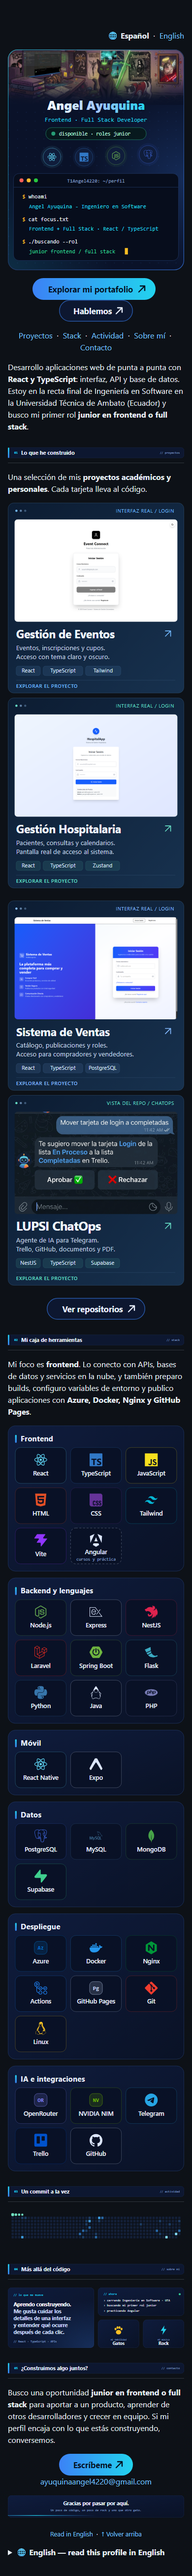
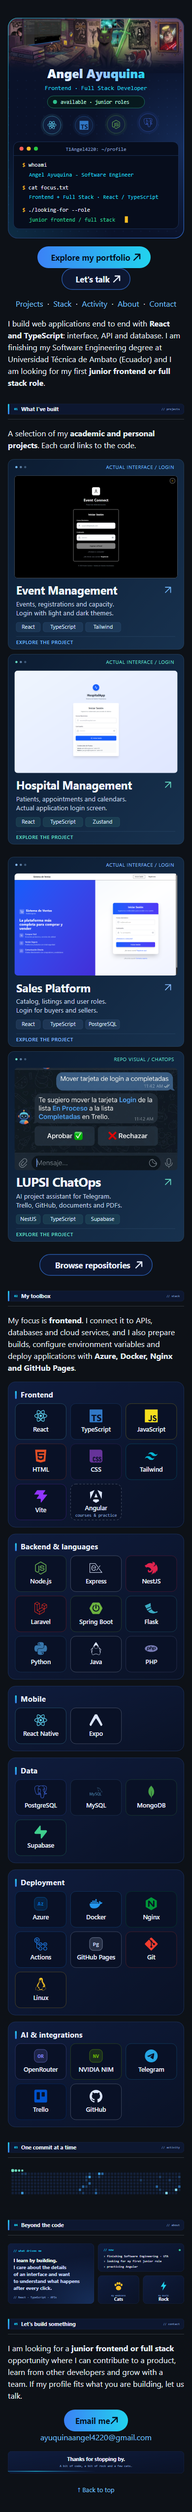
Show English profile by default and preserve Spanish separately

diff --git a/README.md b/README.md
@@ -1,71 +1,67 @@
 <a name="top"></a>
 
-<p align="right">
-  🌐 <strong>Español</strong> &nbsp;·&nbsp; <a href="./README.en.md" lang="en">English</a>
-</p>
-
 <p align="center">
   <picture>
-    <source media="(max-width: 600px)" srcset="./assets/v3/es/hero-mobile.svg">
-    <img src="./assets/v3/es/hero.svg" width="100%" alt="Angel Ayuquina, Ingeniero en Software. Enfoque Frontend y Full Stack con React, TypeScript, APIs y datos. Disponible para roles junior. Habitación animada de programación y rock con gatos.">
+    <source media="(max-width: 600px)" srcset="./assets/v3/en/hero-mobile.svg">
+    <img src="./assets/v3/en/hero.svg" width="100%" alt="Angel Ayuquina, Software Engineer. Frontend and Full Stack focus with React, TypeScript, APIs and data. Available for junior roles. Animated cat-filled programming and rock room.">
   </picture>
 </p>
 
 <p align="center">
-  <a href="https://angel-portafolio-eight.vercel.app/"><img src="./assets/v3/es/cta-portfolio.svg" height="44" alt="Explorar mi portafolio"></a>
+  <a href="https://angel-portafolio-eight.vercel.app/"><img src="./assets/v3/en/cta-portfolio.svg" height="44" alt="Explore my portfolio"></a>
   &nbsp;
-  <a href="#contact"><img src="./assets/v3/es/cta-talk.svg" height="44" alt="Hablemos"></a>
+  <a href="#contact"><img src="./assets/v3/en/cta-talk.svg" height="44" alt="Let's talk"></a>
 </p>
 
 <p align="center">
-  <a href="#projects">Proyectos</a> &nbsp;·&nbsp;
+  <a href="#projects">Projects</a> &nbsp;·&nbsp;
   <a href="#stack">Stack</a> &nbsp;·&nbsp;
-  <a href="#activity">Actividad</a> &nbsp;·&nbsp;
-  <a href="#about">Sobre&nbsp;mí</a> &nbsp;·&nbsp;
-  <a href="#contact">Contacto</a>
+  <a href="#activity">Activity</a> &nbsp;·&nbsp;
+  <a href="#about">About</a> &nbsp;·&nbsp;
+  <a href="#contact">Contact</a>
 </p>
 
-Desarrollo aplicaciones web de punta a punta con **React y TypeScript**: interfaz, API y base de datos. Estoy en la recta final de Ingeniería en Software en la Universidad Técnica de Ambato (Ecuador) y busco mi primer rol **junior en frontend o full stack**.
+I build web applications end to end with **React and TypeScript**: interface, API and database. I am finishing my Software Engineering degree at Universidad Técnica de Ambato (Ecuador) and I am looking for my first **junior frontend or full stack role**.
 
 <a name="projects"></a>
 
 <h2>
-  <img src="./assets/v3/es/h1.svg" width="100%" alt="Lo que he construido">
+  <img src="./assets/v3/en/h1.svg" width="100%" alt="What I've built">
 </h2>
 
-Una selección de mis **proyectos académicos y personales**. Cada tarjeta lleva al código.
+A selection of my **academic and personal projects**. Each card links to the code.
 
 <p align="center">
-  <a href="https://github.com/T1Angel4220/eventconnect"><img src="./assets/projects/eventconnect-es.svg" width="420" alt="Gestión de Eventos · React, TypeScript, Tailwind"></a>
-  <a href="https://github.com/T1Angel4220/AD-GestionHospitalaria"><img src="./assets/projects/hospitalapp-es.svg" width="420" alt="Gestión Hospitalaria · React, TypeScript, Zustand"></a>
+  <a href="https://github.com/T1Angel4220/eventconnect"><img src="./assets/projects/eventconnect-en.svg" width="420" alt="Event Management · React, TypeScript, Tailwind"></a>
+  <a href="https://github.com/T1Angel4220/AD-GestionHospitalaria"><img src="./assets/projects/hospitalapp-en.svg" width="420" alt="Hospital Management · React, TypeScript, Zustand"></a>
 </p>
 
 <p align="center">
-  <a href="https://github.com/T1Angel4220/SistemaVentas"><img src="./assets/projects/sales-es.svg" width="420" alt="Sistema de Ventas · React, TypeScript, PostgreSQL"></a>
-  <a href="https://github.com/T1Angel4220/AgenteTelegram"><img src="./assets/projects/telegram-es.svg" width="420" alt="LUPSI ChatOps · NestJS, TypeScript, Supabase"></a>
+  <a href="https://github.com/T1Angel4220/SistemaVentas"><img src="./assets/projects/sales-en.svg" width="420" alt="Sales System · React, TypeScript, PostgreSQL"></a>
+  <a href="https://github.com/T1Angel4220/AgenteTelegram"><img src="./assets/projects/telegram-en.svg" width="420" alt="LUPSI ChatOps · NestJS, TypeScript, Supabase"></a>
 </p>
 
 <p align="center">
-  <a href="https://github.com/T1Angel4220?tab=repositories"><img src="./assets/v3/es/cta-repos.svg" height="44" alt="Ver repositorios"></a>
+  <a href="https://github.com/T1Angel4220?tab=repositories"><img src="./assets/v3/en/cta-repos.svg" height="44" alt="Browse repositories"></a>
 </p>
 
 <a name="stack"></a>
 
 <h2>
-  <img src="./assets/v3/es/h2.svg" width="100%" alt="Mi caja de herramientas">
+  <img src="./assets/v3/en/h2.svg" width="100%" alt="My toolbox">
 </h2>
 
-Mi foco es **frontend**. Lo conecto con APIs, bases de datos y servicios en la nube, y también preparo builds, configuro variables de entorno y publico aplicaciones con **Azure, Docker, Nginx y GitHub Pages**.
+My focus is **frontend**. I connect it to APIs, databases and cloud services, and I also prepare builds, configure environment variables and deploy applications with **Azure, Docker, Nginx and GitHub Pages**.
 
 <picture>
-  <source media="(max-width: 600px)" srcset="./assets/v3/es/stack-mobile.svg">
-  <img src="./assets/v3/es/stack.svg" width="100%" alt="Stack: React, TypeScript, JavaScript, HTML, CSS, Tailwind y Vite; Angular por cursos y práctica. Backend: Node.js, Express, NestJS, Laravel, Spring Boot, Flask, Python, Java y PHP. Móvil: React Native y Expo. Datos: PostgreSQL, MySQL, MongoDB y Supabase. Despliegue: Docker, Nginx, Azure, GitHub Actions, GitHub Pages, Git y Linux. IA e integraciones: OpenRouter, NVIDIA NIM, Telegram, Trello y GitHub.">
+  <source media="(max-width: 600px)" srcset="./assets/v3/en/stack-mobile.svg">
+  <img src="./assets/v3/en/stack.svg" width="100%" alt="Stack: React, TypeScript, JavaScript, HTML, CSS, Tailwind and Vite; Angular through courses and practice. Backend: Node.js, Express, NestJS, Laravel, Spring Boot, Flask, Python, Java and PHP. Mobile: React Native and Expo. Data: PostgreSQL, MySQL, MongoDB and Supabase. Deployment: Docker, Nginx, Azure, GitHub Actions, GitHub Pages, Git and Linux. AI and integrations: OpenRouter, NVIDIA NIM, Telegram, Trello and GitHub.">
 </picture>
 
 <a name="activity"></a>
 
 <h2>
-  <img src="./assets/v3/es/h3.svg" width="100%" alt="Un commit a la vez">
+  <img src="./assets/v3/en/h3.svg" width="100%" alt="One commit at a time">
 </h2>
 
 <p align="center">
@@ -73,7 +69,7 @@ Mi foco es **frontend**. Lo conecto con APIs, bases de datos y servicios en la n
     <picture>
       <source media="(prefers-color-scheme: dark)" srcset="https://raw.githubusercontent.com/T1Angel4220/T1Angel4220/output/github-snake-dark.svg">
       <source media="(prefers-color-scheme: light)" srcset="https://raw.githubusercontent.com/T1Angel4220/T1Angel4220/output/github-snake.svg">
-      <img src="https://raw.githubusercontent.com/T1Angel4220/T1Angel4220/output/github-snake.svg" width="100%" alt="Animación de mis contribuciones públicas, actualizada a diario.">
+      <img src="https://raw.githubusercontent.com/T1Angel4220/T1Angel4220/output/github-snake.svg" width="100%" alt="Animation of my public contributions, refreshed daily.">
     </picture>
   </a>
 </p>
@@ -81,26 +77,26 @@ Mi foco es **frontend**. Lo conecto con APIs, bases de datos y servicios en la n
 <a name="about"></a>
 
 <h2>
-  <img src="./assets/v3/es/h4.svg" width="100%" alt="Más allá del código">
+  <img src="./assets/v3/en/h4.svg" width="100%" alt="Beyond the code">
 </h2>
 
-<img src="./assets/v3/es/about.svg" width="100%" alt="Aprendo construyendo y cuido los detalles de una interfaz. Ahora: cerrando Ingeniería en Software y buscando mi primer rol junior. Me gustan los gatos y el rock.">
+<img src="./assets/v3/en/about.svg" width="100%" alt="I learn by building and care about interface details. Now: finishing Software Engineering and looking for my first junior role. I like cats and rock music.">
 
 <a name="contact"></a>
 
 <h2>
-  <img src="./assets/v3/es/h5.svg" width="100%" alt="¿Construimos algo juntos?">
+  <img src="./assets/v3/en/h5.svg" width="100%" alt="Let's build something">
 </h2>
 
-Busco una oportunidad **junior en frontend o full stack** para aportar a un producto, aprender de otros desarrolladores y crecer en equipo. Si mi perfil encaja con lo que estás construyendo, conversemos.
+I am looking for a **junior frontend or full stack** opportunity where I can contribute to a product, learn from other developers and grow with a team. If my profile fits what you are building, let us talk.
 
 <p align="center">
-  <a href="mailto:ayuquinaangel4220@gmail.com"><img src="./assets/v3/es/cta-mail.svg" height="44" alt="Escríbeme"></a><br>
+  <a href="mailto:ayuquinaangel4220@gmail.com"><img src="./assets/v3/en/cta-mail.svg" height="44" alt="Email me"></a><br>
   <a href="mailto:ayuquinaangel4220@gmail.com">ayuquinaangel4220@gmail.com</a>
 </p>
 
-<img src="./assets/v3/es/footer.svg" width="100%" alt="Gracias por pasar por aquí. Un poco de código, un poco de rock y uno que otro gato.">
+<img src="./assets/v3/en/footer.svg" width="100%" alt="Thanks for stopping by. A bit of code, a bit of rock and a few cats.">
 
 <p align="center">
-  <sub><a href="./README.en.md" lang="en">Read in English</a> &nbsp;·&nbsp; <a href="#top">↑ Volver arriba</a></sub>
+  <sub><a href="#top">↑ Back to top</a></sub>
 </p>

diff --git a/README.es.md b/README.es.md
@@ -1,0 +1,106 @@
+<a name="top"></a>
+
+<p align="right">
+  🌐 <strong>Español</strong> &nbsp;·&nbsp; <a href="./README.en.md" lang="en">English</a>
+</p>
+
+<p align="center">
+  <picture>
+    <source media="(max-width: 600px)" srcset="./assets/v3/es/hero-mobile.svg">
+    <img src="./assets/v3/es/hero.svg" width="100%" alt="Angel Ayuquina, Ingeniero en Software. Enfoque Frontend y Full Stack con React, TypeScript, APIs y datos. Disponible para roles junior. Habitación animada de programación y rock con gatos.">
+  </picture>
+</p>
+
+<p align="center">
+  <a href="https://angel-portafolio-eight.vercel.app/"><img src="./assets/v3/es/cta-portfolio.svg" height="44" alt="Explorar mi portafolio"></a>
+  &nbsp;
+  <a href="#contact"><img src="./assets/v3/es/cta-talk.svg" height="44" alt="Hablemos"></a>
+</p>
+
+<p align="center">
+  <a href="#projects">Proyectos</a> &nbsp;·&nbsp;
+  <a href="#stack">Stack</a> &nbsp;·&nbsp;
+  <a href="#activity">Actividad</a> &nbsp;·&nbsp;
+  <a href="#about">Sobre&nbsp;mí</a> &nbsp;·&nbsp;
+  <a href="#contact">Contacto</a>
+</p>
+
+Desarrollo aplicaciones web de punta a punta con **React y TypeScript**: interfaz, API y base de datos. Estoy en la recta final de Ingeniería en Software en la Universidad Técnica de Ambato (Ecuador) y busco mi primer rol **junior en frontend o full stack**.
+
+<a name="projects"></a>
+
+<h2>
+  <img src="./assets/v3/es/h1.svg" width="100%" alt="Lo que he construido">
+</h2>
+
+Una selección de mis **proyectos académicos y personales**. Cada tarjeta lleva al código.
+
+<p align="center">
+  <a href="https://github.com/T1Angel4220/eventconnect"><img src="./assets/projects/eventconnect-es.svg" width="420" alt="Gestión de Eventos · React, TypeScript, Tailwind"></a>
+  <a href="https://github.com/T1Angel4220/AD-GestionHospitalaria"><img src="./assets/projects/hospitalapp-es.svg" width="420" alt="Gestión Hospitalaria · React, TypeScript, Zustand"></a>
+</p>
+
+<p align="center">
+  <a href="https://github.com/T1Angel4220/SistemaVentas"><img src="./assets/projects/sales-es.svg" width="420" alt="Sistema de Ventas · React, TypeScript, PostgreSQL"></a>
+  <a href="https://github.com/T1Angel4220/AgenteTelegram"><img src="./assets/projects/telegram-es.svg" width="420" alt="LUPSI ChatOps · NestJS, TypeScript, Supabase"></a>
+</p>
+
+<p align="center">
+  <a href="https://github.com/T1Angel4220?tab=repositories"><img src="./assets/v3/es/cta-repos.svg" height="44" alt="Ver repositorios"></a>
+</p>
+
+<a name="stack"></a>
+
+<h2>
+  <img src="./assets/v3/es/h2.svg" width="100%" alt="Mi caja de herramientas">
+</h2>
+
+Mi foco es **frontend**. Lo conecto con APIs, bases de datos y servicios en la nube, y también preparo builds, configuro variables de entorno y publico aplicaciones con **Azure, Docker, Nginx y GitHub Pages**.
+
+<picture>
+  <source media="(max-width: 600px)" srcset="./assets/v3/es/stack-mobile.svg">
+  <img src="./assets/v3/es/stack.svg" width="100%" alt="Stack: React, TypeScript, JavaScript, HTML, CSS, Tailwind y Vite; Angular por cursos y práctica. Backend: Node.js, Express, NestJS, Laravel, Spring Boot, Flask, Python, Java y PHP. Móvil: React Native y Expo. Datos: PostgreSQL, MySQL, MongoDB y Supabase. Despliegue: Docker, Nginx, Azure, GitHub Actions, GitHub Pages, Git y Linux. IA e integraciones: OpenRouter, NVIDIA NIM, Telegram, Trello y GitHub.">
+</picture>
+
+<a name="activity"></a>
+
+<h2>
+  <img src="./assets/v3/es/h3.svg" width="100%" alt="Un commit a la vez">
+</h2>
+
+<p align="center">
+  <a href="https://github.com/T1Angel4220">
+    <picture>
+      <source media="(prefers-color-scheme: dark)" srcset="https://raw.githubusercontent.com/T1Angel4220/T1Angel4220/output/github-snake-dark.svg">
+      <source media="(prefers-color-scheme: light)" srcset="https://raw.githubusercontent.com/T1Angel4220/T1Angel4220/output/github-snake.svg">
+      <img src="https://raw.githubusercontent.com/T1Angel4220/T1Angel4220/output/github-snake.svg" width="100%" alt="Animación de mis contribuciones públicas, actualizada a diario.">
+    </picture>
+  </a>
+</p>
+
+<a name="about"></a>
+
+<h2>
+  <img src="./assets/v3/es/h4.svg" width="100%" alt="Más allá del código">
+</h2>
+
+<img src="./assets/v3/es/about.svg" width="100%" alt="Aprendo construyendo y cuido los detalles de una interfaz. Ahora: cerrando Ingeniería en Software y buscando mi primer rol junior. Me gustan los gatos y el rock.">
+
+<a name="contact"></a>
+
+<h2>
+  <img src="./assets/v3/es/h5.svg" width="100%" alt="¿Construimos algo juntos?">
+</h2>
+
+Busco una oportunidad **junior en frontend o full stack** para aportar a un producto, aprender de otros desarrolladores y crecer en equipo. Si mi perfil encaja con lo que estás construyendo, conversemos.
+
+<p align="center">
+  <a href="mailto:ayuquinaangel4220@gmail.com"><img src="./assets/v3/es/cta-mail.svg" height="44" alt="Escríbeme"></a><br>
+  <a href="mailto:ayuquinaangel4220@gmail.com">ayuquinaangel4220@gmail.com</a>
+</p>
+
+<img src="./assets/v3/es/footer.svg" width="100%" alt="Gracias por pasar por aquí. Un poco de código, un poco de rock y uno que otro gato.">
+
+<p align="center">
+  <sub><a href="./README.en.md" lang="en">Read in English</a> &nbsp;·&nbsp; <a href="#top">↑ Volver arriba</a></sub>
+</p>

diff --git a/docs/diseno-perfil.md b/docs/diseno-perfil.md
@@ -1,12 +1,12 @@
 # Diseño del perfil
 
-Los archivos [README.md](../README.md) y [README.en.md](../README.en.md) comparten estructura y recursos equivalentes en español e inglés. La versión actual publica el diseño `v3` preparado por el usuario, con una cabecera integrada en azul oscuro.
+El [README.md](../README.md) muestra el perfil únicamente en inglés. [README.en.md](../README.en.md) conserva una copia inglesa compatible con enlaces anteriores. La versión española completa está preservada en [README.es.md](../README.es.md), sin selectores ni enlaces visibles desde el perfil principal. Los recursos españoles también se conservan. El diseño actual es `v3`, con una cabecera integrada en azul oscuro.
 
 Vistas previas: [escritorio](./previews/perfil-escritorio.png) · [móvil](./previews/perfil-movil.png). Se generan a partir del HTML del renderizador de GitHub y una hoja de estilos de aproximación.
 
 ## Composición
 
-1. Selector de idioma, habitación animada, nombre, disponibilidad y terminal.
+1. Habitación animada, nombre, disponibilidad y terminal en inglés.
 2. Portafolio, contacto y navegación interna.
 3. Gestión de Eventos, Gestión Hospitalaria, Sistema de Ventas y LUPSI ChatOps, enlazados a los repositorios originales.
 4. Stack por categorías: frontend, backend, móvil, datos, despliegue e integraciones de IA.
@@ -41,7 +41,7 @@ Los recursos originales del banner y las versiones anteriores se conservan. La c
 
 El [workflow de contribuciones](../.github/workflows/contributions.yml) publica los SVG de actividad en la rama `output` a las 00:17 de Ecuador continental, con opción de ejecución manual. Las acciones están fijadas a commits; los resultados incluyen una regla de movimiento reducido y variantes para temas claro y oscuro.
 
-El selector de idioma enlaza `README.md` y `README.en.md`. Cada botón abre la versión completa del idioma elegido en GitHub. No hay un bloque de inglés al final del documento ni desplazamiento entre traducciones. GitHub no permite reemplazar dinámicamente el README del perfil: cada idioma se presenta como un archivo separado.
+El perfil principal no muestra un selector de idioma ni un bloque desplegable. La versión española se conserva en `README.es.md` y puede abrirse directamente desde los archivos del repositorio; queda fuera de la presentación principal, según la preferencia del usuario.
 
 El botón de portafolio apunta a [angel-portafolio-eight.vercel.app](https://angel-portafolio-eight.vercel.app/).
 

diff --git a/README.en.md b/README.en.md
@@ -1,9 +1,5 @@
 <a name="top"></a>
 
-<p align="right">
-  🌐 <a href="./README.md" lang="es">Español</a> &nbsp;·&nbsp; <strong>English</strong>
-</p>
-
 <p align="center">
   <picture>
     <source media="(max-width: 600px)" srcset="./assets/v3/en/hero-mobile.svg">
@@ -102,5 +98,5 @@ I am looking for a **junior frontend or full stack** opportunity where I can con
 <img src="./assets/v3/en/footer.svg" width="100%" alt="Thanks for stopping by. A bit of code, a bit of rock and a few cats.">
 
 <p align="center">
-  <sub><a href="./README.md" lang="es">Leer en español</a> &nbsp;·&nbsp; <a href="#top">↑ Back to top</a></sub>
+  <sub><a href="#top">↑ Back to top</a></sub>
 </p>
